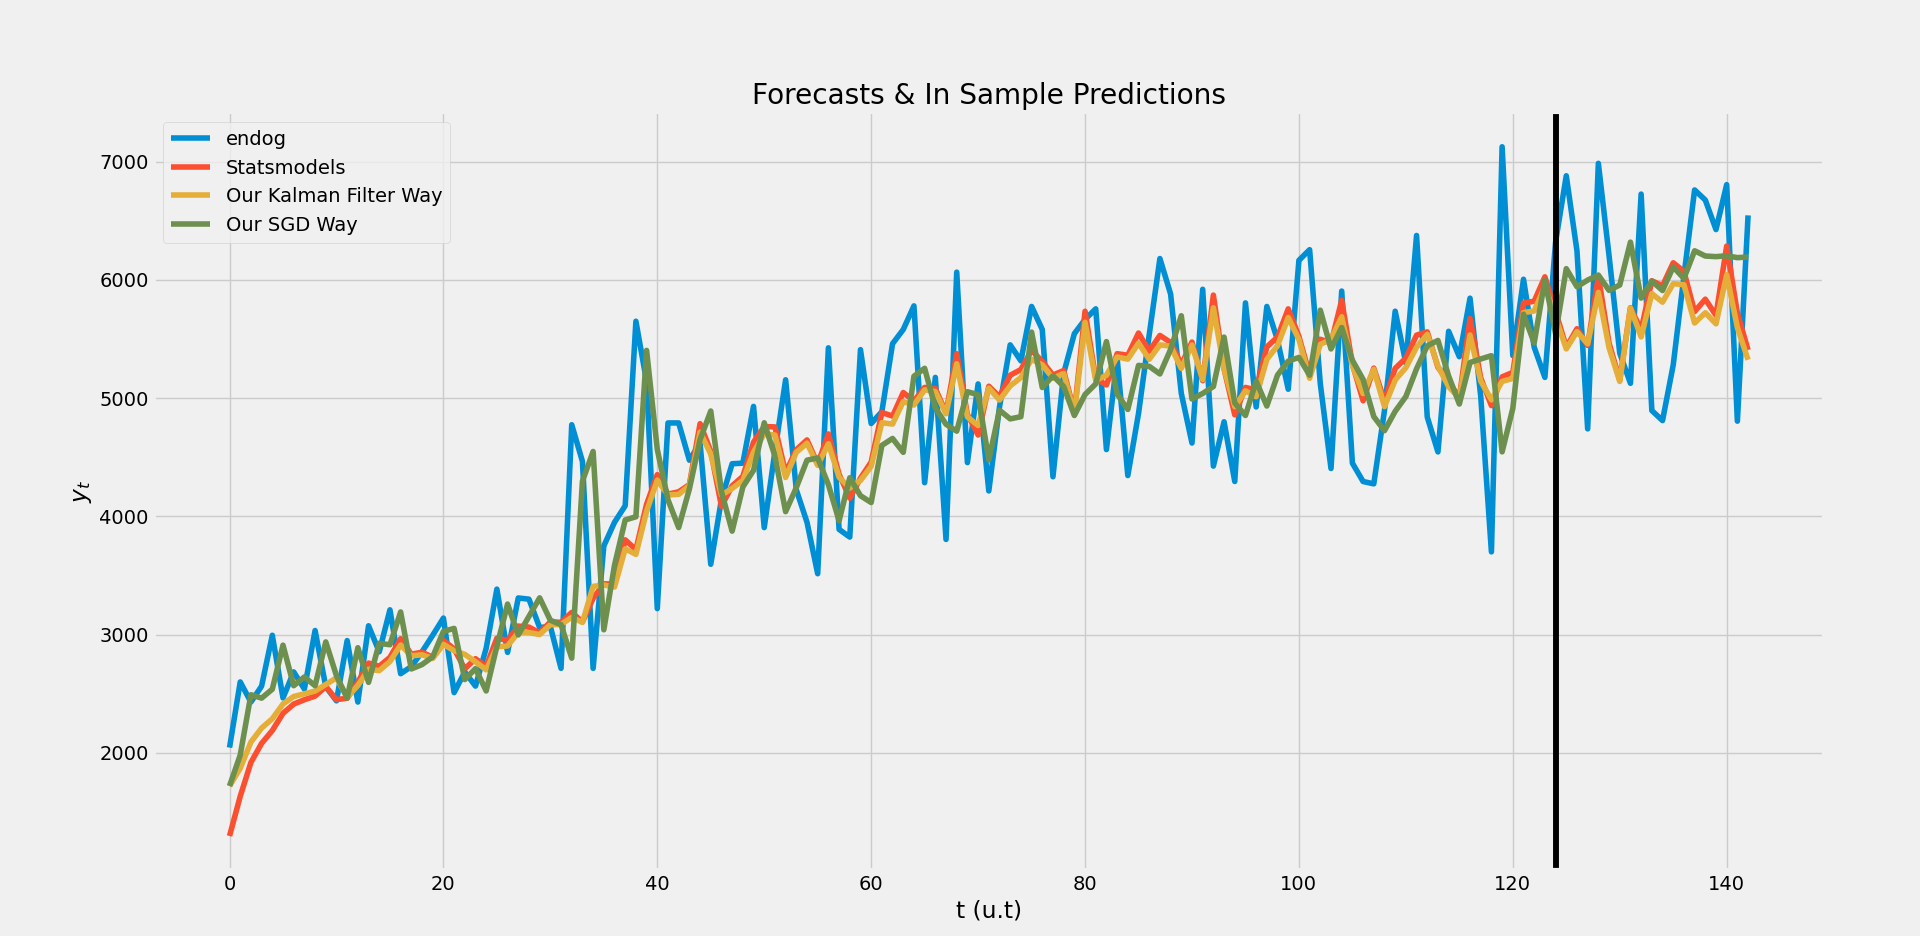
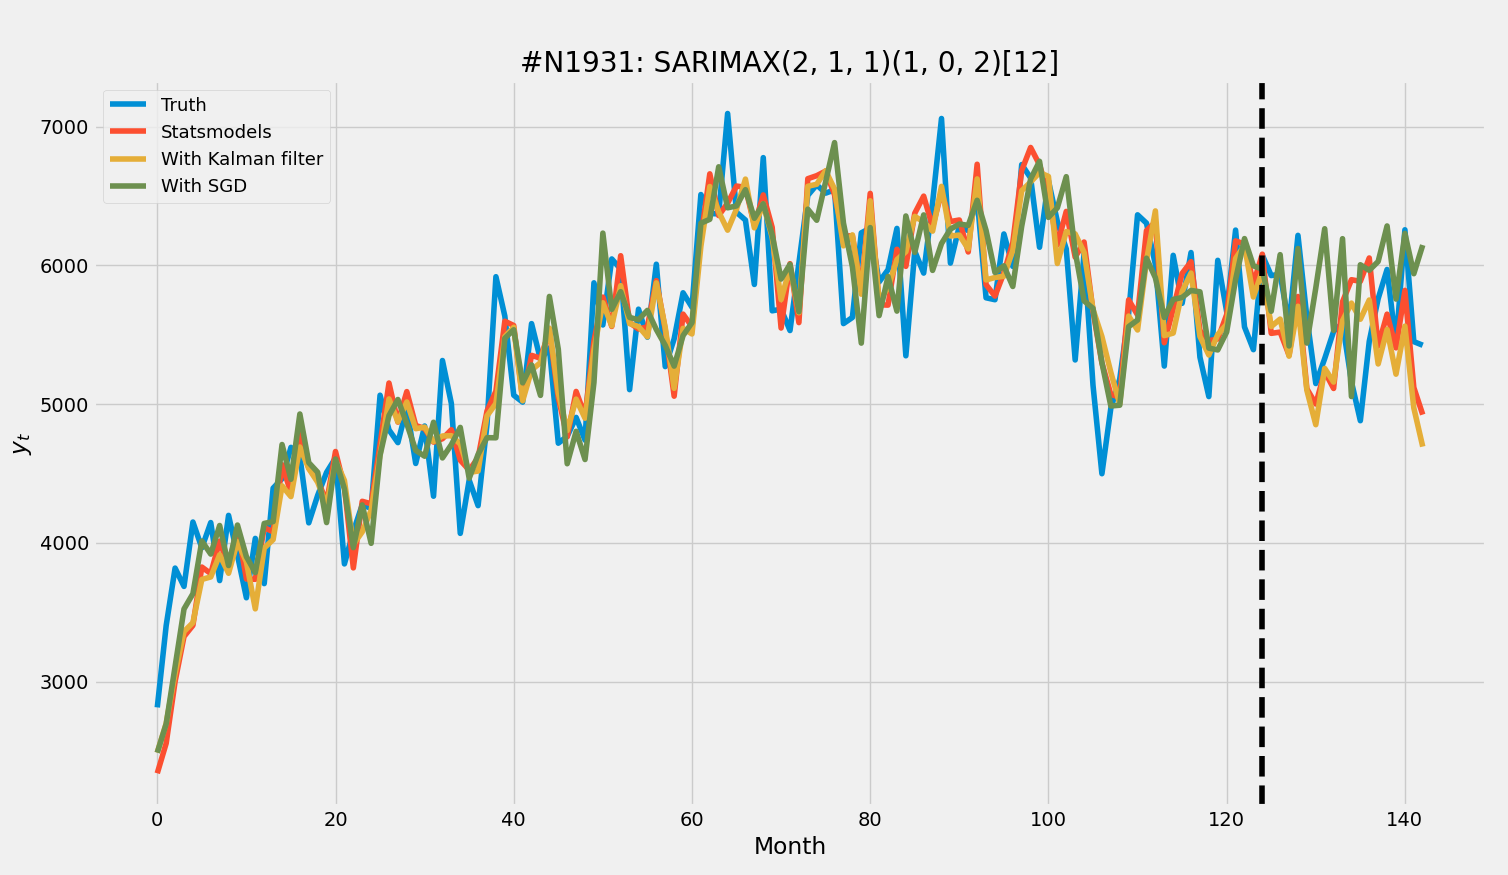
changed example run

diff --git a/README.md b/README.md
@@ -10,25 +10,21 @@ The formulation is:
 &emsp;&emsp;&emsp;&emsp;&emsp;&emsp;&emsp;&emsp;&emsp;&emsp;
 ![sarimax_eqn](img/model_equation.svg)
 
-### Purpose of the repository
+### Estimation
 
 We need to estimate those greek letters, i.e., the S-AR, S-MA, X parameters of the model, which is said to be of order *(p, d, q)(P, D, Q)[m]*.
 
 First way is to use Stochastic Gradient Descent (SGD). Logic is this: we fit a large AR(p) model first, get the residuals of it and use it as the unobserved noise in the formulation. Then we form the design matrix and employ SGD to find all the parameters.
 
-Second way is via MLE: we put the S-ARIMA-X into a (Hamiltonian) state space formulation, run a Kalman filter for likelihood and a numerical optimizer solves for parameters (e.g, L-BFGS).
+Second way is via MLE: we put the S-ARIMA-X into a (Hamiltonian) state space formulation, run a Kalman filter for likelihood and a numerical optimizer solves for parameters (e.g, L-BFGS). *statsmodels* does something like this, too; but they also offer Harvey's representation (that's the default and used in below example).
 
 ### Example result
-Here is a sample monthly data from M4 Competiton dataset (#N1944). Black vertical line is train-test split point. All models have the order (1, 1, 1)(1, 0, 1)[12]:
+Here is a sample monthly data from [M3 Competiton dataset](https://forecasters.org/resources/time-series-data/m3-competition/). Black vertical line is train-test split point. All models have the order *(2, 1, 1)(1, 0, 2)[12]*:
 
-![m4_data_comparison](img/example_run.png)
+![m3_data_comparison](img/example_run.png)
 
-The Kalman filter way closely follows `statsmodels.tsa.statespace.SARIMAX` and this is because statsmodels also estimates via MLE with Kalman Filter.
 
 ### Usage
-
-I tried to write a scikit-learn'esque interface.
-
 For SGD:
 
 ```python
